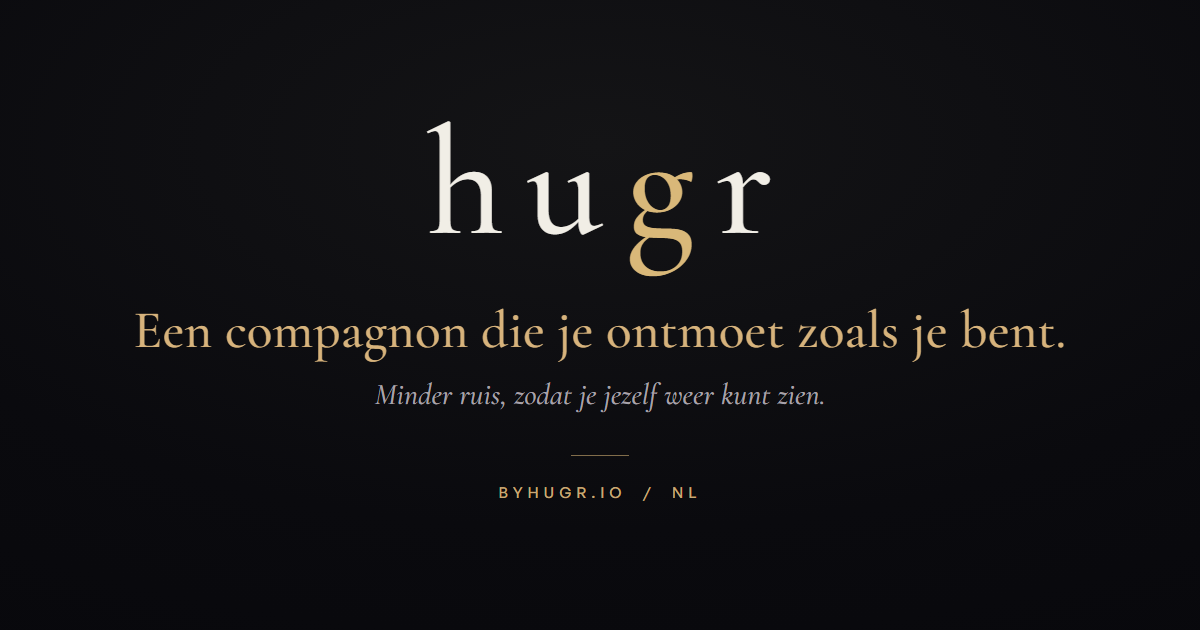
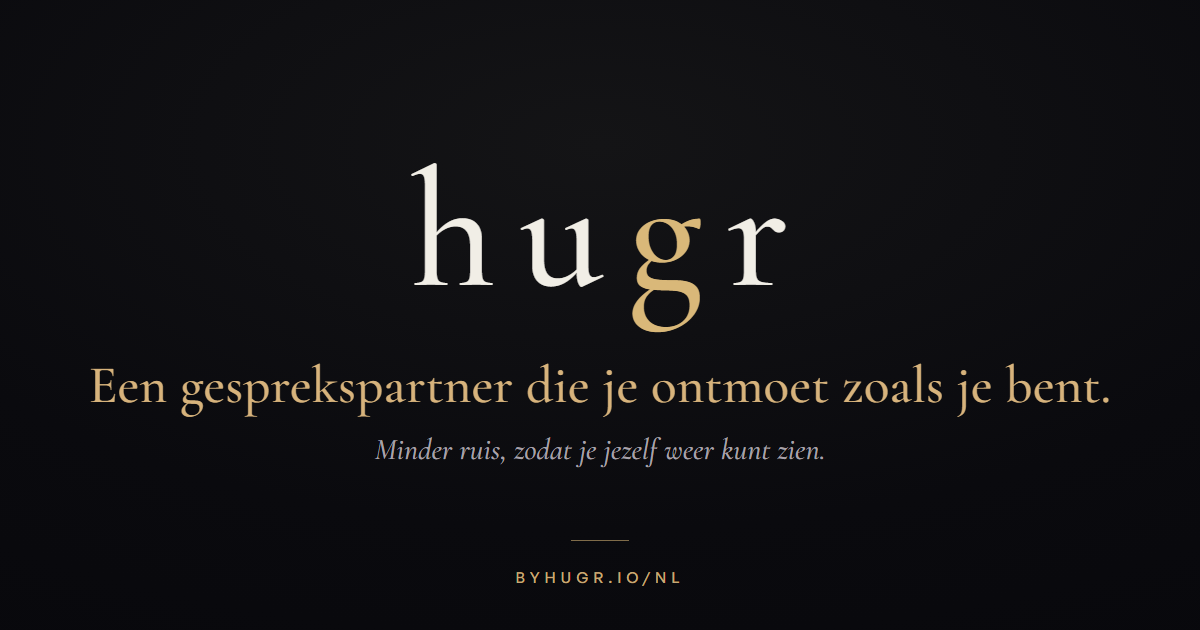
Fix broken assets on /nl and /fr, Dutch copy pass, new NL share card
The portrait and both store badges were injected with relative paths
(./assets/...). On the /nl and /fr entry pages, which live in
subdirectories, those resolved to /nl/assets/... where the catch-all
rewrite returned the homepage HTML with a 200 - so three images were
silently broken for every visitor to those pages since launch.

Resolve injected asset and questions-page paths against the module URL
so they work at the root, under /nl and /fr, and in local preview.
The questions link also lost its ?lang=, which sent Dutch and French
readers to the English page.

Copy: Dutch "compagnon" reads as a business partner, so it is replaced
with context-appropriate forms (gesprekspartner / AI-partner / AI).
Drop the name from the example conversation and label it clearly.
Remove three orphaned experienceLink keys that nothing rendered.

Regenerate og-nl.png with the new wording, matching the French card.

diff --git a/copy.js b/copy.js
@@ -45,11 +45,10 @@ export const copy = {
     experienceTitle: "Start anywhere, <em>Hugr reads between the lines.</em>",
     experienceBody:
       "Some days it all comes at once. Other days you’re not sure what you’re feeling. You can start right there. Hugr listens, so you can hear yourself.",
-    experienceLink: "No rush. No right answers.",
-    chatLabel: "An example",
+    chatLabel: "An example conversation",
     chatSubtitle: "An AI companion",
     you: "You",
-    chatOne: "Hi Soph. What brings you here today?",
+    chatOne: "What brings you here today?",
     chatTwo:
       "I’m not sure. Something happened this morning and I can’t quite put it into words yet.",
     chatThree:
@@ -250,11 +249,10 @@ export const copy = {
     experienceTitle: "Commencez n’importe où, <em>HUGR lit entre les lignes…</em>",
     experienceBody:
       "Certains jours, tout se bouscule à l’intérieur. D’autres, vous ne savez pas bien ce que vous ressentez. Vous pouvez commencer là. Hugr vous écoute, pour vous aider à vous entendre.",
-    experienceLink: "On a tout le temps pour attiser votre curiosité.",
-    chatLabel: "Un aperçu",
+    chatLabel: "Un exemple de conversation",
     chatSubtitle: "Un compagnon IA",
     you: "Vous",
-    chatOne: "Bonjour Soph. Qu’est-ce qui vous amène aujourd’hui ?",
+    chatOne: "Qu’est-ce qui vous amène aujourd’hui ?",
     chatTwo:
       "Je ne sais pas trop. Il s’est passé quelque chose ce matin, et je n’arrive pas encore à mettre des mots dessus.",
     chatThree:
@@ -425,8 +423,8 @@ export const copy = {
     waitlistSuccess: "Je staat op de lijst. We mailen je wanneer de deur opengaat.",
     waitlistError: "Dat lukte niet. Probeer opnieuw of mail hello@byhugr.io.",
     sourceHeroSubtitle:
-      "Een AI, gecreëerd met dertig jaar klinische ervaring. Een plek om te landen, los te laten en weer verder te gaan.",
-    sourceHeroTitle: "Een compagnon die je ontmoet zoals je bent.",
+      "Een AI gecreëerd met dertig jaar klinische ervaring. Een plek om te landen, los te laten en weer verder te gaan.",
+    sourceHeroTitle: "Een gesprekspartner die je ontmoet zoals je bent.",
     waitlistTitle: "Hugr is bijna klaar.",
     waitlistBody:
       "Laat je e-mailadres achter. We mailen je wanneer de deur opengaat.",
@@ -437,7 +435,7 @@ export const copy = {
 
     title: "Hugr — Ruimte om jezelf te zijn",
     description:
-      "Een AI-compagnon die je ontmoet zoals je bent. Minder ruis, zodat je jezelf weer kunt zien. Binnenkort op iPhone en Android.",
+      "Een AI-partner die je ontmoet zoals je bent. Minder ruis, zodat je jezelf weer kunt zien. Binnenkort op iPhone en Android.",
     skip: "Naar de inhoud",
     home: "Hugr startpagina",
     navigation: "Hoofdnavigatie",
@@ -452,16 +450,15 @@ export const copy = {
     storeSoon: "Binnenkort beschikbaar",
     appStoreUnavailable: "App Store — nog niet beschikbaar",
     googlePlayUnavailable: "Google Play — nog niet beschikbaar",
-    heroNote: "Een AI-compagnon. Binnenkort op iPhone en Android.",
+    heroNote: "Een AI-partner. Binnenkort op iPhone en Android.",
     experienceEyebrow: "01 / Een ander soort gesprek",
     experienceTitle: "Begin waar je wil, <em>Hugr leest tussen de regels.</em>",
     experienceBody:
-      "Sommige dagen komt alles op je af. Andere dagen weet je niet goed wat je voelt of waar je moet beginnen. Zeg het zoals het komt. Hugr luistert, zodat je jezelf weer hoort.",
-    experienceLink: "Geen haast. Geen foute antwoorden.",
-    chatLabel: "Een voorbeeld",
-    chatSubtitle: "Een AI-compagnon",
+      "Sommige dagen komt alles tegelijk op je af. Andere dagen weet je niet goed wat je voelt of waar te beginnen. Vertel het zoals het bij je binnenkomt. Hugr luistert, zodat je jezelf weer hoort.",
+    chatLabel: "Een voorbeeld van een gesprek",
+    chatSubtitle: "Een AI-partner",
     you: "Jij",
-    chatOne: "Dag Soph. Hoe gaat het vandaag?",
+    chatOne: "Hoe gaat het vandaag?",
     chatTwo:
       "Ik weet het niet goed. Er is vanmorgen iets gebeurd, maar ik weet niet waar ik moet beginnen..",
     chatThree:
@@ -473,7 +470,7 @@ export const copy = {
     conceptionTitle:
       "Hugr is niet geprogrammeerd om te antwoorden. <em>Hugr heeft geleerd om te luisteren.</em>",
     conceptionBody:
-      "<p>Veel AI-compagnons zijn een personage bovenop een generiek model: een naam, een toon, een script. Hugr is anders gebouwd.</p><p>Het leerde luisteren zoals je dat leert na dertig jaar in de praktijk: horen wat er achter de woorden zit. De aarzeling, de tegenstrijdigheden, wat nog niet gezegd raakt. Die manier van luisteren, en ruimte maken voor wat er is, bekom je met geen enkel script. Het is aangeleerd, bijgeschaafd en verbeterd, tot het op eigen benen kon staan.</p>",
+      "<p>Veel AI-partners zijn een personage bovenop een generiek model: een naam, een toon, een script. Hugr is anders gebouwd.</p><p>Het leerde luisteren zoals je dat leert na dertig jaar in de praktijk: horen wat er achter de woorden zit. De aarzeling, de tegenstrijdigheden, wat nog niet gezegd raakt. Die manier van luisteren, en ruimte maken voor wat er is, bekom je met geen enkel script. Het is aangeleerd, bijgeschaafd en verbeterd, tot het op eigen benen kon staan.</p>",
     conceptionClose: "Dat is Hugr.",
     principlesEyebrow: "03 / Waar je op kan rekenen",
     principlesTitle: "<em>De ruimte is van jou.</em>",
@@ -503,7 +500,7 @@ export const copy = {
     storyEyebrow: "04 / De persoon achter Hugr",
     storyTitle: "Peter hoorde <em>méér dan woorden.</em>",
     storyOne:
-      "Dertig jaar lang gingen mensen bij Peter op de behandeltafel liggen en zeiden: “ça va.” Hun lichaam vertelde iets anders. Er waren de woorden, en alles wat onuitgesproken bleef.",
+      "Dertig jaar lang gingen mensen bij Peter op de behandeltafel liggen en zeiden “Ça va” wanneer hij vroeg hoe het met hen ging. Hun lichaam vertelde iets anders. Er waren de woorden, en alles wat onuitgesproken bleef.",
     storyTwo:
       "Zijn praktijk leerde hem dat het belangrijkste in de sessie vaak nog niet is uitgesproken. Soms heeft zelfs wie aan het woord is, het nog niet gehoord.",
     storyThree:
@@ -516,7 +513,7 @@ export const copy = {
     storyMore: "Lees meer",
     storyLess: "Verhaal sluiten",
     storyFull: [
-      "Iedereen kent de vraag: waarom overkomt me dit telkens weer? Dezelfde situatie, in een andere context. Hetzelfde gevoel dat steeds terugkomt. Advies raakt niet altijd de kern. Een patroon is niet alleen iets wat je ziet. Het kan ook bepalen hoe je percipieert.",
+      "Iedereen kent de vraag: waarom overkomt me dit telkens weer? Dezelfde situatie, in een andere context. Hetzelfde gevoel dat steeds terugkomt. Advies raakt niet altijd de kern. Een patroon is niet alleen iets wat je ziet. Het kan ook bepalen hoe je waarneemt.",
       "Hugr is gemaakt voor die ontmoeting. Het analyseert je niet, geeft je geen score en vertelt je niet wie je bent. Het luistert naar wat je meedraagt, niet alleen naar wat je zegt. Daarna doet het een stap terug.",
       "Het is eerlijk over wat het is: een AI. Het probeert je aandacht niet vast te houden en verwacht niet dat je blijft. Je ontmoeten zonder je in de gaten te houden, hoort bij het ontwerp.",
       "“Wat je meedraagt, bepaalt niet wie je bent.” Daar begon Hugr: de afstand kleiner maken tussen wat iemand draagt en wat die onder woorden kan brengen. Zodat iemand gezien kan worden zoals die is. En zichzelf misschien ook zo leert zien.",
@@ -529,7 +526,7 @@ export const copy = {
     faq: [
       [
         "Wat is Hugr?",
-        "Een AI-compagnon die je ontmoet zoals je bent. Je praat in je eigen woorden, op je eigen tempo. Hugr luistert zonder oordeel en geeft terug wat het hoort, zodat je er zelf naar kunt kijken. Nooit als een oordeel. Geboren uit dertig jaar luisteren in een praktijk, is het gemaakt om te luisteren en dan een stap terug te doen — nooit om je te laten terugkomen.",
+        "Een AI die je ontmoet zoals je bent. Je praat in je eigen woorden, op je eigen tempo. Hugr luistert zonder oordeel en geeft terug wat het hoort, zodat je er zelf naar kunt kijken. Nooit als een oordeel. Geboren uit dertig jaar luisteren in een praktijk, is het gemaakt om te luisteren en dan een stap terug te doen — nooit om je te laten terugkomen.",
       ],
       [
         "Is Hugr een AI?",
@@ -537,7 +534,7 @@ export const copy = {
       ],
       [
         "Is Hugr een therapeut?",
-        'Nee. Hugr is een compagnon, geen therapeut, arts of crisisdienst. Het stelt geen diagnoses, behandelt je niet en kan geen hulp inschakelen. Ben je in direct gevaar? Bel 112 in de EU of het noodnummer van je land. <button class="inline-link" data-dialog="support">Praat met iemand</button>.',
+        'Nee. Hugr is een AI-gesprekspartner, geen therapeut, arts of crisisdienst. Het stelt geen diagnoses, behandelt je niet en kan geen hulp inschakelen. Ben je in direct gevaar? Bel 112 in de EU of het noodnummer van je land. <button class="inline-link" data-dialog="support">Praat met iemand</button>.',
       ],
       [
         "Bewaart Hugr wat ik zeg?",
@@ -578,7 +575,7 @@ export const copy = {
     footerCompany:
       "Inlight Comm.V. · BE 0773.924.891<br>Haie Madame 22, 6953 Lesterny, België",
     footerDisclaimer:
-      "Een AI-compagnon voor volwassenen vanaf 18 jaar.<br>Hugr vervangt geen menselijke zorg of hulpdiensten.",
+      "Een AI-gesprekspartner voor volwassenen vanaf 18 jaar.<br>Hugr vervangt geen menselijke zorg of hulpdiensten.",
     privacyTitle: "Jouw woorden.<br>Jouw keuzes.",
     privacyIntro:
       "Wanneer je je inschrijft op de wachtlijst, worden je e-mailadres en de taal waarin je leest naar onze lijst gestuurd, bewaard via Google Workspace. Meer verzamelt deze pagina niet — geen naam, geen tracking, geen transcriptie.",

diff --git a/app.js b/app.js
@@ -2,6 +2,8 @@ import { createHomeHero } from "./hero.js";
 import { copy } from "./copy.js";
 import { createPresence } from "./presence.js";
 import { createAlignment } from "./alignment.js";
+const BASE = new URL("./", import.meta.url).href;
+const ASSETS = `${BASE}assets/`;
 const WAITLIST_ENDPOINT = "https://script.google.com/macros/s/AKfycbwN3xRW_DM05LIjXte12CIrqhf9-hgpzs75bE2ANSNNDSmDiThZ3G8fk4vf-oqAJje9SA/exec";
 let destroyAlignments = () => {};
 let homeHero;
@@ -75,8 +77,8 @@ function sections(c) {
  ${c.conceptionTitle ? `<section class="conception section wrap" id="conception"><div class="section-intro reveal"><p class="eyebrow">${c.conceptionEyebrow}</p><h2>${c.conceptionTitle}</h2>${c.conceptionBody}${c.conceptionClose ? `<p class="conception-close">${c.conceptionClose}</p>` : ""}</div></section>` : ""}
  <section class="principles section wrap" id="approach"><p class="eyebrow reveal">${c.principlesEyebrow}</p><div class="intro-row reveal"><h2>${c.principlesTitle}</h2><p>${c.principlesBody}</p></div><div class="principle-grid"><div class="principle-thread" aria-hidden="true"></div>${c.principles.map((p, i) => `<article class="principle reveal"><div class="principle-top"><span class="section-number">0${i + 1}</span><span class="principle-symbol">${icons[i]}</span></div><div class="principle-copy"><h3>${p.title}</h3><p>${p.text}</p></div></article>`).join("")}</div></section>
  <section class="statement" id="heart"><div class="heart-beacon" aria-hidden="true"><span></span><span></span><i></i></div><p class="eyebrow reveal">${c.statementEyebrow}</p><blockquote class="reveal">${c.statement}</blockquote><p class="statement-bottom reveal">${c.statementBottom}</p></section>
- <section class="story section wrap" id="story"><div class="story-grid"><figure class="portrait reveal"><img src="./assets/peter.jpg" alt="${c.founder}" width="600" height="600" loading="lazy"><figcaption><strong>${c.founder}</strong>${c.founderRole}</figcaption></figure><div class="story-text reveal"><p class="eyebrow">${c.storyEyebrow}</p><h2>${c.storyTitle}</h2><p>${c.storyOne}</p><p>${c.storyTwo}</p><p>${c.storyThree}</p><p class="signature">${c.storySignature}</p><button type="button" class="small-link story-more" aria-expanded="false" aria-controls="story-full"><span>${c.storyMore}</span><span aria-hidden="true">+</span></button><div class="story-full" id="story-full" hidden>${c.storyFull.map((p) => `<p>${p}</p>`).join("")}</div></div></div></section>
- <section class="faq section wrap" id="questions"><div class="faq-heading reveal"><p class="eyebrow">${c.faqEyebrow}</p><h2>${c.faqTitle}</h2><p>${c.faqIntro}</p><a class="small-link" href="mailto:hello@byhugr.io">${c.faqContact}<svg class="ui-icon" viewBox="0 0 24 24" fill="none" stroke="currentColor" stroke-width="1.5" stroke-linecap="round" stroke-linejoin="round" aria-hidden="true" focusable="false"><path d="M6 18 18 6M6 6h12v12"/></svg></a></div><div class="faq-list reveal">${c.faq.slice(0, 5).map(([q, a]) => `<details><summary>${q}</summary><p>${a}</p></details>`).join("")}</div>${c.faqAll ? `<a class="small-link faq-all reveal" href="questions.html?lang=${locale}">${c.faqAll}<svg class="ui-icon" viewBox="0 0 24 24" fill="none" stroke="currentColor" stroke-width="1.5" stroke-linecap="round" stroke-linejoin="round" aria-hidden="true" focusable="false"><path d="M6 18 18 6M6 6h12v12"/></svg></a>` : ""}</section>
+ <section class="story section wrap" id="story"><div class="story-grid"><figure class="portrait reveal"><img src="${ASSETS}peter.jpg" alt="${c.founder}" width="600" height="600" loading="lazy"><figcaption><strong>${c.founder}</strong>${c.founderRole}</figcaption></figure><div class="story-text reveal"><p class="eyebrow">${c.storyEyebrow}</p><h2>${c.storyTitle}</h2><p>${c.storyOne}</p><p>${c.storyTwo}</p><p>${c.storyThree}</p><p class="signature">${c.storySignature}</p><button type="button" class="small-link story-more" aria-expanded="false" aria-controls="story-full"><span>${c.storyMore}</span><span aria-hidden="true">+</span></button><div class="story-full" id="story-full" hidden>${c.storyFull.map((p) => `<p>${p}</p>`).join("")}</div></div></div></section>
+ <section class="faq section wrap" id="questions"><div class="faq-heading reveal"><p class="eyebrow">${c.faqEyebrow}</p><h2>${c.faqTitle}</h2><p>${c.faqIntro}</p><a class="small-link" href="mailto:hello@byhugr.io">${c.faqContact}<svg class="ui-icon" viewBox="0 0 24 24" fill="none" stroke="currentColor" stroke-width="1.5" stroke-linecap="round" stroke-linejoin="round" aria-hidden="true" focusable="false"><path d="M6 18 18 6M6 6h12v12"/></svg></a></div><div class="faq-list reveal">${c.faq.slice(0, 5).map(([q, a]) => `<details><summary>${q}</summary><p>${a}</p></details>`).join("")}</div>${c.faqAll ? `<a class="small-link faq-all reveal" href="${BASE}questions.html?lang=${locale}">${c.faqAll}<svg class="ui-icon" viewBox="0 0 24 24" fill="none" stroke="currentColor" stroke-width="1.5" stroke-linecap="round" stroke-linejoin="round" aria-hidden="true" focusable="false"><path d="M6 18 18 6M6 6h12v12"/></svg></a>` : ""}</section>
  <section class="join" id="join"><div class="alignment-scene"><canvas id="alignment" aria-hidden="true"></canvas><span class="alignment-person">${c.joinCenter}</span></div><p class="eyebrow">${c.joinEyebrow}</p><h2>${c.joinTitle}</h2><p>${c.joinBody}</p><button type="button" class="button" data-dialog="waitlist"><span>${c.join}</span><svg class="ui-icon" viewBox="0 0 24 24" fill="none" stroke="currentColor" stroke-width="1.5" stroke-linecap="round" stroke-linejoin="round" aria-hidden="true" focusable="false"><path d="M6 18 18 6M6 6h12v12"/></svg></button><small class="join-note">${c.joinNote}</small></section>`;
 }
 function footer(c) {
@@ -106,10 +108,10 @@ function render() {
     .setAttribute("aria-label", c.navigation);
   document.querySelector(".languages").setAttribute("aria-label", c.language);
   const questionsNav = document.querySelector('.desktop-nav a[data-nav="questions"]');
-  if (questionsNav) questionsNav.href = `questions.html?lang=${locale}`;
+  if (questionsNav) questionsNav.href = `${BASE}questions.html?lang=${locale}`;
   document.querySelector(".dialog-close").setAttribute("aria-label", c.close);
   document.querySelector("#store-preview").innerHTML =
-    `<div class="store-badges"><button type="button" class="store-badge apple-badge" disabled aria-label="${c.appStoreUnavailable}"><img src="./assets/app-store-en.svg" alt="" width="120" height="40"></button><button type="button" class="store-badge play-badge play-${locale}" disabled aria-label="${c.googlePlayUnavailable}"><img src="./assets/google-play-${locale}.png" alt="" width="646" height="250"></button></div><span class="store-soon">${c.storeSoon}</span>`;
+    `<div class="store-badges"><button type="button" class="store-badge apple-badge" disabled aria-label="${c.appStoreUnavailable}"><img src="${ASSETS}app-store-en.svg" alt="" width="120" height="40"></button><button type="button" class="store-badge play-badge play-${locale}" disabled aria-label="${c.googlePlayUnavailable}"><img src="${ASSETS}google-play-${locale}.png" alt="" width="646" height="250"></button></div><span class="store-soon">${c.storeSoon}</span>`;
   document.querySelector("#page-sections").innerHTML = sections(c);
   document.querySelector("#page-footer").innerHTML = footer(c);
   const alignmentCleanup = [

diff --git a/nl/index.html b/nl/index.html
@@ -6,7 +6,7 @@
     <meta name="theme-color" content="#07080e" />    <title>Hugr — Ruimte om jezelf te zijn</title>
     <meta
       name="description"
-      content="Een AI-compagnon die je ontmoet zoals je bent. Minder ruis, zodat je jezelf weer kunt zien. Binnenkort op iPhone en Android."
+      content="Een AI-partner die je ontmoet zoals je bent. Minder ruis, zodat je jezelf weer kunt zien. Binnenkort op iPhone en Android."
     />
     <link rel="canonical" href="https://byhugr.io/nl" />
     <link rel="alternate" hreflang="en" href="https://byhugr.io/" />
@@ -20,7 +20,7 @@
     <meta property="og:title" content="Hugr — Ruimte om jezelf te zijn" />
     <meta
       property="og:description"
-      content="Een AI-compagnon die je ontmoet zoals je bent. Minder ruis, zodat je jezelf weer kunt zien. Binnenkort op iPhone en Android."
+      content="Een AI-partner die je ontmoet zoals je bent. Minder ruis, zodat je jezelf weer kunt zien. Binnenkort op iPhone en Android."
     />
     <meta property="og:image" content="https://byhugr.io/og-nl.png" />
     <meta property="og:image:width" content="1200" />
@@ -30,7 +30,7 @@
     <meta name="twitter:title" content="Hugr — Ruimte om jezelf te zijn" />
     <meta
       name="twitter:description"
-      content="Een AI-compagnon die je ontmoet zoals je bent. Minder ruis, zodat je jezelf weer kunt zien. Binnenkort op iPhone en Android."
+      content="Een AI-partner die je ontmoet zoals je bent. Minder ruis, zodat je jezelf weer kunt zien. Binnenkort op iPhone en Android."
     />
     <meta name="twitter:image" content="https://byhugr.io/og-nl.png" />
     <link rel="icon" href="/assets/favicon.svg" type="image/svg+xml" />
@@ -61,7 +61,7 @@
       <nav class="desktop-nav" aria-label="Main navigation">
         <a href="#experience" data-i18n="navExperience">The experience</a>
         <a href="#story" data-i18n="navStory">Our story</a>
-        <a href="questions.html" data-i18n="navQuestions" data-nav="questions">Your questions</a>
+        <a href="/questions.html?lang=nl" data-i18n="navQuestions" data-nav="questions">Your questions</a>
       </nav>
       <div class="header-end">
         <div class="languages" role="group" aria-label="Language">

diff --git a/fr/index.html b/fr/index.html
@@ -61,7 +61,7 @@
       <nav class="desktop-nav" aria-label="Main navigation">
         <a href="#experience" data-i18n="navExperience">The experience</a>
         <a href="#story" data-i18n="navStory">Our story</a>
-        <a href="questions.html" data-i18n="navQuestions" data-nav="questions">Your questions</a>
+        <a href="/questions.html?lang=fr" data-i18n="navQuestions" data-nav="questions">Your questions</a>
       </nav>
       <div class="header-end">
         <div class="languages" role="group" aria-label="Language">
